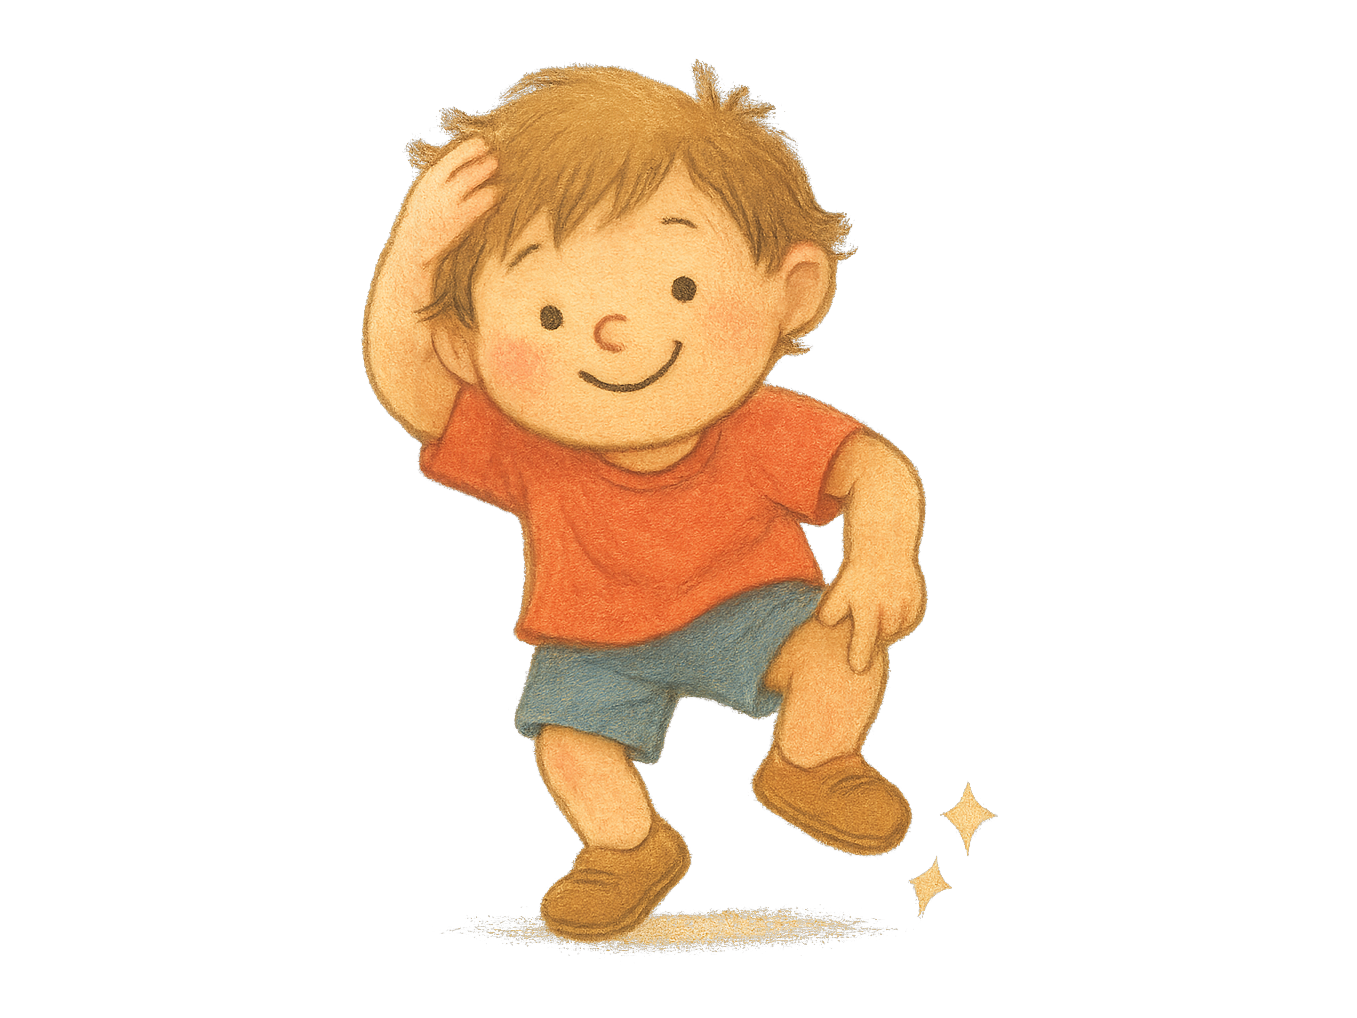
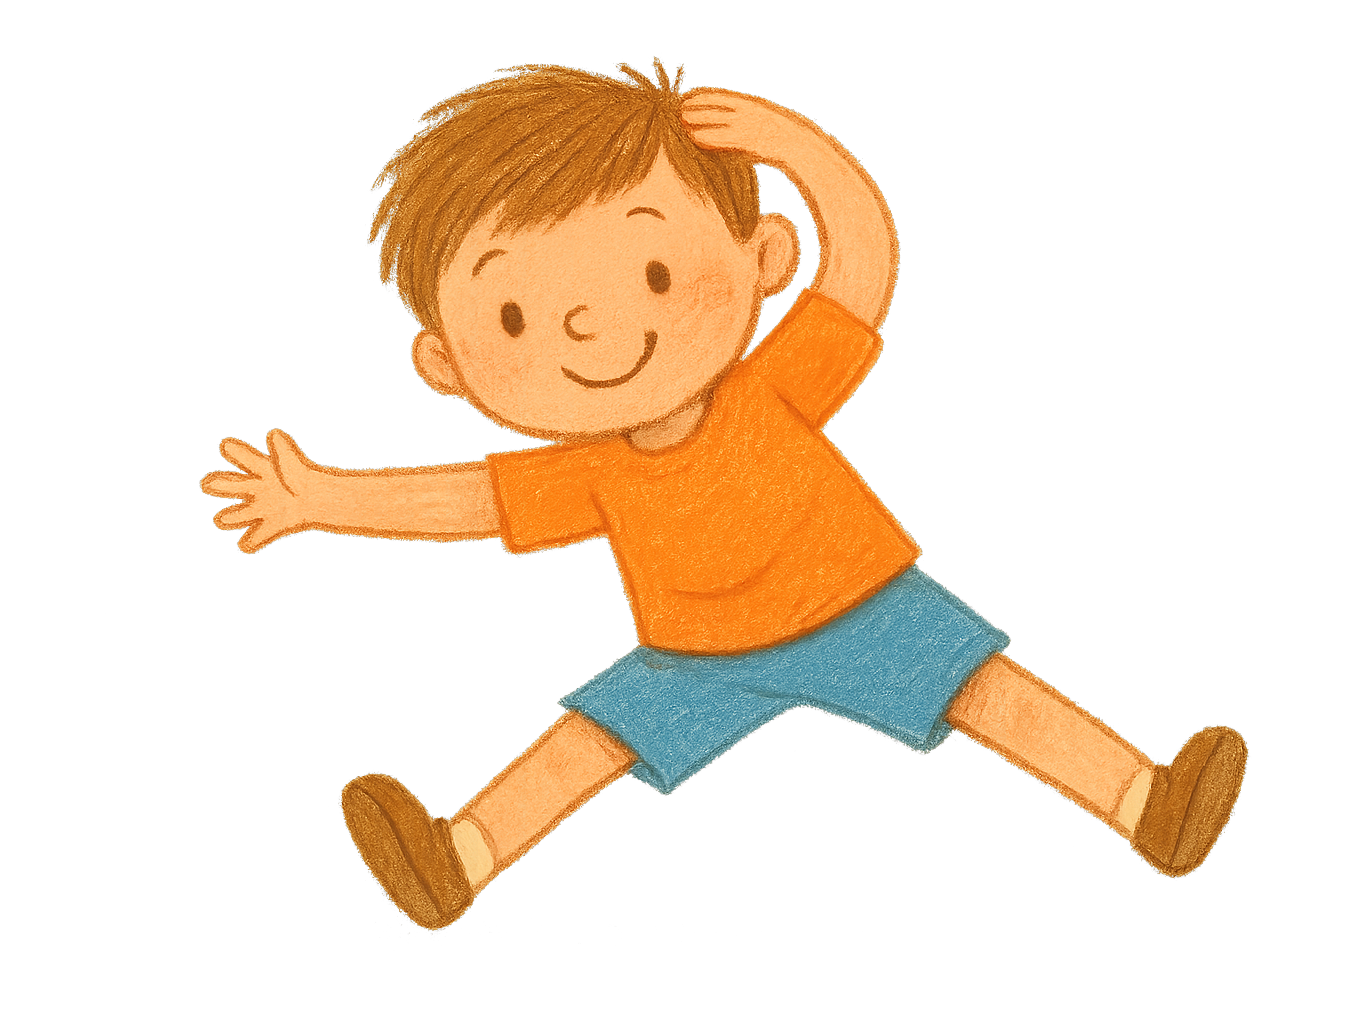
Regenerate Cabeza, hombros illustration with a wider pose
Of the 5 images that needed side-padding in the previous framing fix,
this was the one that still looked weak at full card scale: a single
narrow standing child, visibly small with dead space on both sides,
because the source pose itself (arms at sides) is basically
portrait-shaped -- no crop can fix a composition that's the wrong
shape to begin with.

Regenerated via scripts/generate_illustration.py (gpt-image-1) with an
explicit wide, arms-and-legs-spread action pose and transparent
background, then ran it through the same crop/pad pipeline as the
batch fix. Verified: front/back audit still 0 mismatches, effective
width matches every other painting at 112mm, overflow_scan clean, and
the actual rendered card reads naturally and fills the frame like the
rest of the pack.

Claude-Session: https://claude.ai/code/session_011saRmvJqVKKcu7br3XL5DQ

Changed region(s): [[0.1238, 0.0609, 0.9285, 0.944]]

diff --git a/STATUS.md b/STATUS.md
@@ -2930,6 +2930,42 @@ different failure mode from every other consistency bug this session
 (which were all geometry/layout), worth remembering that the fix
 sometimes lives in the asset, not the code around it.
 
+## Cabeza, hombros regenerated — September 2026
+
+Follow-up to the framing-crop entry above: Sebastian offered "happy for
+you to use the openai api to generate a new image if the crop isnt
+good or its the wrong shape." Re-checked all 5 images that needed
+side-padding to reach the 112:84 box at full card scale (not just an
+isolated swatch): Estrellita, Tengo una muñeca, Las mañanitas, and
+Barco chiquitito all read well after the crop fix -- their compositions
+already have enough natural horizontal spread. **Cabeza, hombros,
+rodillas y pies** didn't: a single narrow standing child, still
+visibly small with dead space on both sides even after cropping,
+because the SOURCE pose itself is basically portrait-shaped (arms at
+sides) -- no crop can fix a composition that's the wrong shape to
+begin with.
+
+Regenerated via `scripts/generate_illustration.py` (gpt-image-1).
+First attempt used `--ref` against the existing image plus another
+card for style continuity -- came back with a visible opaque
+background wash and barely any wider a pose, unusable. Second attempt
+dropped the reference images entirely and asked directly for a WIDE
+action pose (arms and legs spread, mid-motion) with an explicit
+transparent background -- worked well on the first try. (Note: the
+Read tool's own preview rendered the transparent PNG against a
+solid-color backdrop that looked like an opaque wash; had to composite
+it against the actual page cream color locally to confirm the alpha
+channel was genuinely transparent before trusting it.)
+
+Ran the same crop/pad pipeline as the batch fix (content bbox + 6%
+margin, pad to 112:84 minimum ratio) on the new image, then re-ran the
+full verification stack: front/back audit (0 mismatches, since front
+and back clone the same file), effective-width check (112mm, matching
+every other painting), overflow_scan, and a fresh render of the actual
+card to confirm the pose reads naturally for "touch your head,
+shoulders, knees" and fills the frame the way the rest of the pack
+does.
+
 ## Suggested next steps
 
 1. Second pass on Venezuela (first attempt found only a vague summary of
